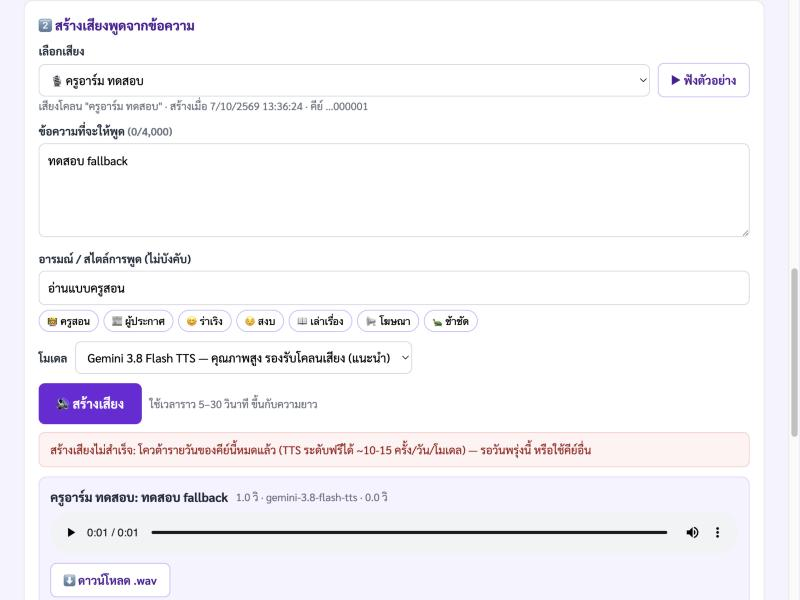
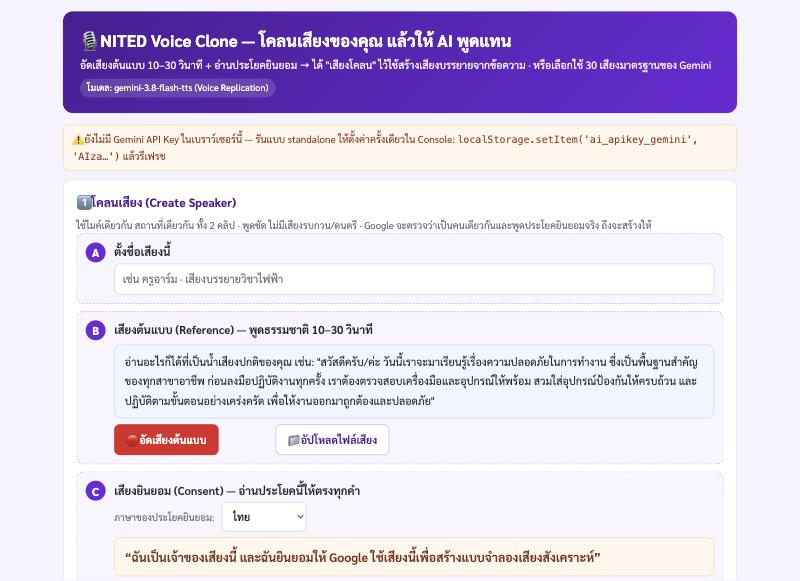
remove API key entry panel — use central account key only (no key values in repo)

diff --git a/static/js/app.js b/static/js/app.js
@@ -81,18 +81,16 @@ async function syncSharedKeys() {
 function updateKeyUi() {
   const n = getKeys().length;
   const st = $('#keyStatus');
-  $('#keyCount').textContent = n ? `(มี ${n} คีย์)` : '(ยังไม่มีคีย์)';
   if (n) {
     st.className = 'key-status hidden';
     st.innerHTML = '';
   } else {
+    // ไม่มีช่องกรอกคีย์ในหน้านี้ (เจ้าของสั่ง 2026-10-07 — เหมือน ai-tts): ตั้งที่ระบบทำแผนการสอนที่เดียว
     st.className = 'key-status off';
     st.innerHTML = ON_DLES()
-      ? '⚠ ยังไม่มีคีย์ Gemini ในบัญชีนี้ — ตั้งค่าครั้งเดียวที่ <a href="/lesson-plan" target="_blank" rel="noopener">ระบบทำแผนการสอน → ปุ่ม “ตั้งค่า AI”</a> หรือกดแผง ⚙ ด้านล่างเพื่อใส่คีย์ที่นี่'
-      : '⚠ ยังไม่มี Gemini API Key — กดแผง ⚙ ด้านล่างเพื่อใส่คีย์ก่อนใช้งาน';
-    $('#keyPanel').open = true;
+      ? '⚠ ยังไม่มีคีย์ Gemini ในบัญชีนี้ — ตั้งค่าคีย์ครั้งเดียวที่ <a href="/lesson-plan" target="_blank" rel="noopener">ระบบทำแผนการสอน → ปุ่ม “ตั้งค่า AI”</a> แล้วกลับมาหน้านี้ (ใช้คีย์ร่วมกันทุกระบบ)'
+      : '⚠ ยังไม่มี Gemini API Key ในเบราว์เซอร์นี้ — รันแบบ standalone ให้ตั้งค่าครั้งเดียวใน Console: <code>localStorage.setItem(\'ai_apikey_gemini\', \'AIza…\')</code> แล้วรีเฟรช';
   }
-  if (!$('#keyInput').value) $('#keyInput').value = getKeys().join('\n');
 }
 
 /** คีย์ที่ควรลองก่อนสำหรับเสียงนี้ — เสียงโคลนผูกกับโปรเจกต์ของคีย์ที่สร้าง */
@@ -256,7 +254,7 @@ function updateCloneBtn() {
 
 async function doClone() {
   const keys = getKeys();
-  if (!keys.length) { msg('#cloneMsg', 'ยังไม่มี Gemini API Key — ใส่ที่แผง ⚙ ก่อน'); $('#keyPanel').open = true; return; }
+  if (!keys.length) { msg('#cloneMsg', 'ยังไม่มี Gemini API Key — ใส่ที่แผง ⚙ ก่อน'); return; }
   if (!state.ref || !state.consent) return;
   const name = $('#voiceName').value.trim() || `เสียงของฉัน ${new Date().toLocaleDateString('th-TH')}`;
   const store = $('#storeVoice').checked;
@@ -331,7 +329,7 @@ function download(blob, name) {
 
 async function doSpeak(sampleMode = false) {
   const keys = getKeys();
-  if (!keys.length) { msg('#ttsMsg', 'ยังไม่มี Gemini API Key — ใส่ที่แผง ⚙ ก่อน'); $('#keyPanel').open = true; return; }
+  if (!keys.length) { msg('#ttsMsg', 'ยังไม่มี Gemini API Key — ใส่ที่แผง ⚙ ก่อน'); return; }
   const voice = $('#voiceSelect').value;
   const text = sampleMode
     ? 'สวัสดีค่ะ นี่คือตัวอย่างเสียงจากระบบ NITED AI Tools ยินดีต้อนรับสู่การเรียนรู้ในวันนี้'
@@ -446,14 +444,6 @@ function init() {
   loadVoices();
   updateKeyUi();
   syncSharedKeys().then(() => updateKeyUi());
-  $('#btnSaveKeys').addEventListener('click', () => {
-    const keys = parseKeyString($('#keyInput').value);
-    localStorage.setItem(LS_KEYS_SHARED, keys.join('\n'));
-    $('#keyInput').value = keys.join('\n');
-    updateKeyUi();
-    if (keys.length) $('#keyPanel').open = false;
-  });
-
   // เสียง
   renderVoiceSelect();
   renderVoiceTable();

diff --git a/templates/index.html b/templates/index.html
@@ -20,22 +20,9 @@
     <span class="model-note">โมเดล: gemini-3.8-flash-tts (Voice Replication)</span>
   </header>
 
+  <!-- 🔑 ไม่มีช่องกรอกคีย์ในหน้านี้ (เจ้าของสั่ง 2026-10-07 เหมือน ai-tts) — ใช้คีย์กลาง ai_apikey_gemini ของระบบทำแผน/คลังคีย์บัญชี dles -->
   <div id="keyStatus" class="key-status hidden"></div>
 
-  <details class="card" id="keyPanel">
-    <summary>⚙ ตั้งค่า Gemini API Key <span class="muted" id="keyCount"></span></summary>
-    <div class="key-help">
-      คีย์ใช้ในเบราว์เซอร์ของคุณเท่านั้น (ไม่ผ่านเซิร์ฟเวอร์) · ขอคีย์ฟรีได้ที่
-      <a href="https://aistudio.google.com/apikey" target="_blank" rel="noopener">aistudio.google.com/apikey</a>
-      · ใส่หลายคีย์ได้ (บรรทัดละคีย์) ระบบจะสลับให้เมื่อติดโควต้า ·
-      ⚠ เสียงโคลนผูกกับ "โปรเจกต์" ของคีย์ที่ใช้สร้าง — ใช้คีย์เดิมตอนสังเคราะห์เสียงนั้น
-    </div>
-    <textarea id="keyInput" rows="3" placeholder="AIza… (บรรทัดละ 1 คีย์)"></textarea>
-    <div class="row" style="margin-top:8px">
-      <button class="btn" id="btnSaveKeys">💾 บันทึกคีย์</button>
-      <span class="muted">คีย์ชุดเดียวกับระบบทำแผนการสอน / Micro Learning / TTS ของ NITED</span>
-    </div>
-  </details>
 
   <!-- ═══════════ 1) โคลนเสียง ═══════════ -->
   <section class="card" id="cloneCard">

diff --git a/README.md b/README.md
@@ -13,14 +13,18 @@
 - 📜 **ประโยคยินยอม** ไทย / อังกฤษ / จีน (ตามที่ Google กำหนด — ต้องอ่านให้ตรงทุกคำ Google ตรวจว่าเป็นคนเดียวกับเสียงต้นแบบ)
 - 🗣 **ข้อความ → เสียง** — เลือกเสียงโคลนหรือเสียงมาตรฐาน · ใส่อารมณ์/สไตล์การพูดเป็นภาษาธรรมชาติ · ฟังในหน้า + ดาวน์โหลด .wav · ประวัติ 10 รายการล่าสุด
 - 🗂 **คลังเสียงโคลน** — จำไว้ในเบราว์เซอร์ + ดึงรายการจาก Google ได้ (เสียงที่เลือก "เก็บไว้ที่ Google" ใช้ได้ 1 ปี · ไม่เก็บ = คีย์ชั่วคราว 7 วัน) · ลบได้
-- 🔑 คีย์หลายตัว สลับให้เองเมื่อติดโควต้า · สลับ Flash ⇄ Flash-Lite เมื่อโมเดลใดโควต้าเต็ม
+- 🔑 คีย์หลายตัว (คั่นบรรทัด) สลับให้เองเมื่อติดโควต้า · สลับ Flash ⇄ Flash-Lite เมื่อโมเดลใดโควต้าเต็ม
 
 ## รันในเครื่อง
 ```bash
 pip3 install -r requirements.txt
 PORT=5460 python3 app.py        # http://localhost:5460
 ```
-ใส่ Gemini API key (ฟรี: https://aistudio.google.com/apikey) ที่แผง ⚙ ในหน้าเว็บ — คีย์เก็บใน localStorage ของเบราว์เซอร์เท่านั้น
+หน้าเว็บ **ไม่มีช่องกรอก API key** (ในระบบ NITED ใช้คีย์กลางของบัญชีครูที่ตั้งไว้ที่ระบบทำแผนการสอน) · รันเอง (standalone) ให้ตั้งคีย์ครั้งเดียวใน Console ของเบราว์เซอร์:
+```js
+localStorage.setItem('ai_apikey_gemini', 'AIza…')   // ขอคีย์ฟรี: https://aistudio.google.com/apikey
+```
+คีย์อยู่ใน localStorage ของเบราว์เซอร์เท่านั้น ไม่ผ่านเซิร์ฟเวอร์ และ **ไม่มีคีย์ใด ๆ อยู่ในโค้ดนี้**
 
 ## สถาปัตยกรรม
 - `app.py` — Flask เสิร์ฟหน้าเว็บอย่างเดียว **ไม่มี API ฝั่งเซิร์ฟเวอร์ ไม่แตะคีย์/ไฟล์เสียง**

diff --git a/CLAUDE.md b/CLAUDE.md
@@ -17,6 +17,7 @@ PORT=5460 python3 app.py      # http://localhost:5460  (รันผ่าน sh
 - **แก้โค้ดที่นี่ → deploy = `kscp` ไฟล์ขึ้น `C:/ai-voiceclone/` + `nssm restart ai-voiceclone`** (ไม่ต้อง build dles) · แก้ `templates/index.html` ต้อง restart (Jinja cache) · `static/*` เสิร์ฟสด
 - ⚠ **path ใน index.html/JS ต้อง relative เสมอ** (`static/...`) — proxy ฉีด `<base href="/voiceclone/app/">` · ขึ้นต้น `/` = หลุด proxy
 - `/api/ai-keys?provider=gemini` (absolute) = ซิงก์คีย์จากคลังคีย์บัญชี dles — ใช้คีย์กลาง `ai_apikey_gemini` ร่วมกับ planner/ML/ai-tts
+- 🔑 **ไม่มีช่องกรอก API key ในหน้านี้ (เจ้าของสั่ง 2026-10-07 "เอา api key ออกจาก github" — แบบเดียวกับ ai-tts 2026-08-08)** · เหลือแถบสถานะ: บน dles ชี้ไปตั้งที่ระบบทำแผน · standalone บอกให้ตั้งผ่าน Console · ⛔ ห้ามเอาแผงกรอกคีย์กลับมา · ⛔ ห้ามมีค่าคีย์/secret จริงในรีโป (ตรวจแล้ว ไม่เคยมีทั้งใน tree และ history)
 
 ## API ที่ใช้ (อ้างอิง docs Google 2026-10)
 - **สร้างเสียงโคลน**: `POST /v1beta/voices?key=…` body `{store, voice:{model:'gemini-3.8-flash-tts', type:'replicated', display_name, replicated:{source_audio:{mime_type:'audio/wav',data}, consent_audio:{…}}}}`

diff --git a/PROGRESS.md b/PROGRESS.md
@@ -4,3 +4,4 @@
 - Flask เสิร์ฟหน้าเดียว · Gemini เรียกจากเบราว์เซอร์: POST /v1beta/voices (replicated) · POST /v1beta/interactions (สำรอง generateContent) · อัด/อัปโหลด → WAV 24k ในเบราว์เซอร์
 - verify ด้วย mock fetch ในเบราว์เซอร์จริง (ดู CLAUDE.md) · ⚠ ยังไม่ได้ยิงคีย์จริง
 - prod: NSSM ai-voiceclone :5460 + dles /voiceclone (dles-landing ae1d8731)
+- 2026-10-07 (รอบ 2) เจ้าของสั่ง "เอา api key ออกจาก github + deploy": ตรวจแล้วไม่เคยมีค่าคีย์ในรีโป/ประวัติ · ถอดแผงกรอกคีย์ออก (เหลือแถบสถานะ ชี้ไปตั้งที่ระบบทำแผน · standalone ตั้งผ่าน Console) · deploy เอนจินแล้ว (kscp + nssm restart · keyPanel=0 บน prod)
